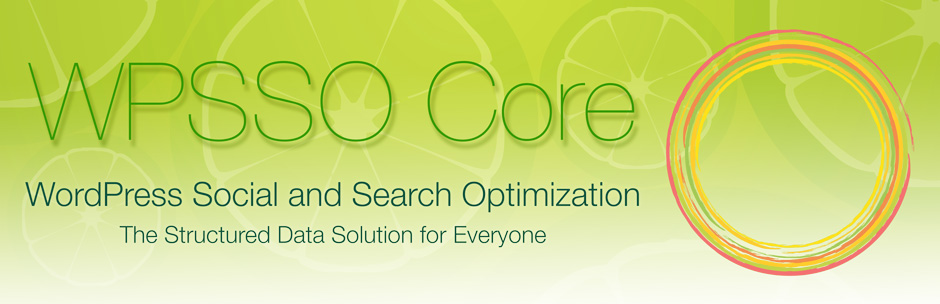
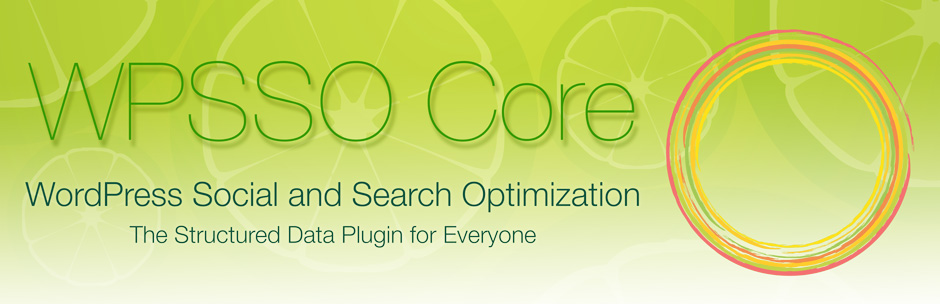
non-essential support files (documentation and assets)

Changed region(s): [[0.1234, 0.7401, 0.5862, 0.7993]]

diff --git a/index.html b/index.html
@@ -25,7 +25,7 @@
         </ul>
       </header>
       <section>
-<h1>WPSSO Core</h1><h3>The Structured Data Solution for Everyone</h3>
+<h1>WPSSO Core</h1><h3>The Structured Data Plugin for Everyone</h3>
 
 <table>
 <tr><th align="right" valign="top" nowrap>Plugin Name</th><td>WPSSO Core</td></tr>
@@ -42,7 +42,7 @@
 
 <h2>Description</h2>
 
-<h3 style="margin-top:0;"><img class="readme-icon" src="https://surniaulula.github.io/wpsso/assets/icon-256x256.png"> The Structured Data Solution for Everyone</h3>
+<h3 style="margin-top:0;"><img class="readme-icon" src="https://surniaulula.github.io/wpsso/assets/icon-256x256.png"> The Structured Data Plugin for Everyone</h3>
 
 <p><strong>Present your content at its best on social sites and in search results, no matter how webpages are shared, re-shared, messaged, posted, embedded, or crawled:</strong></p>
 
